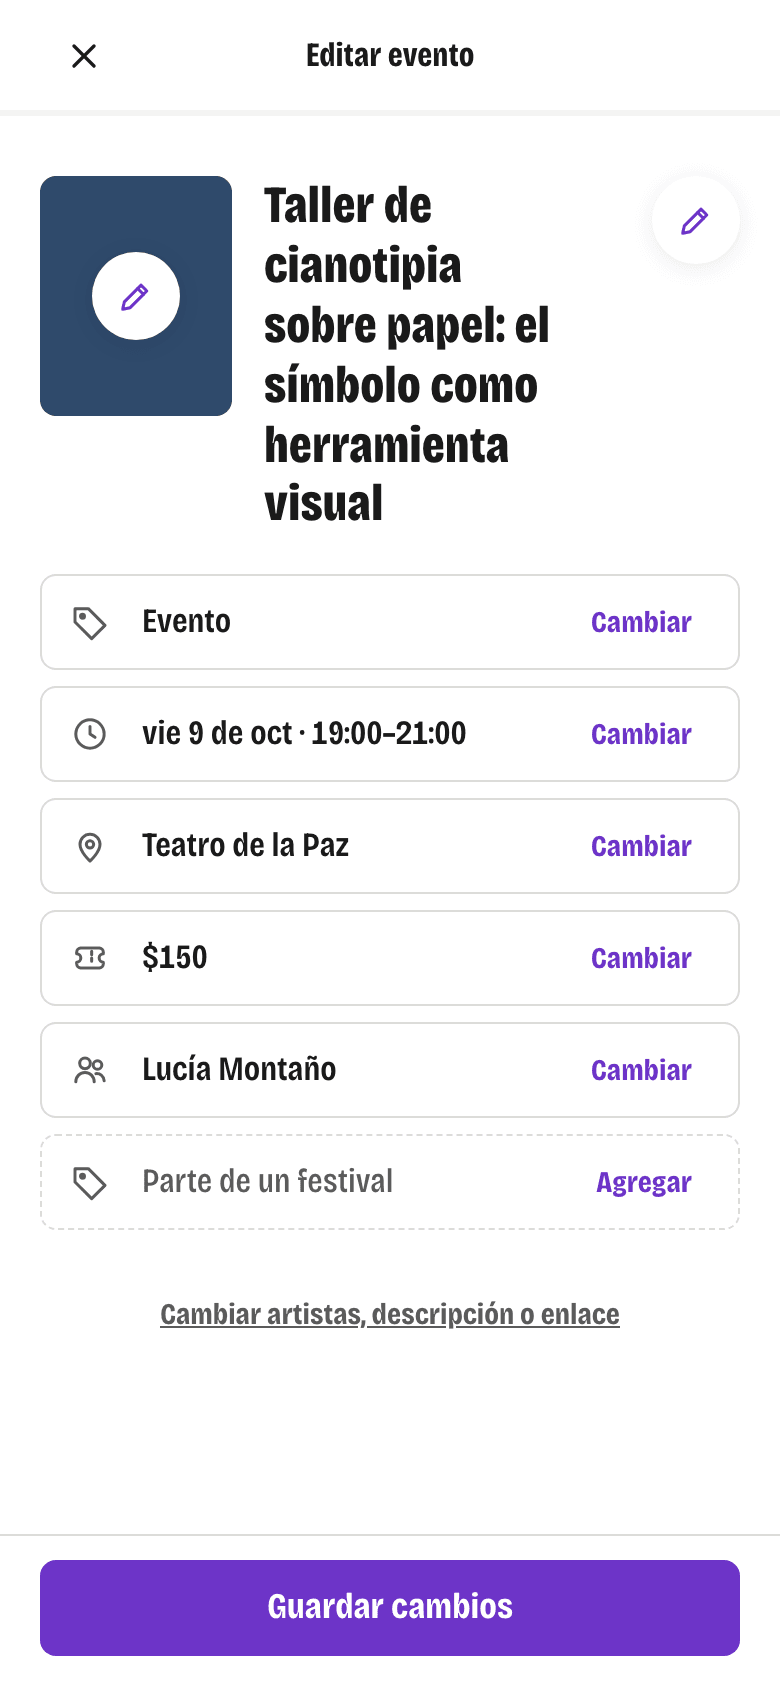
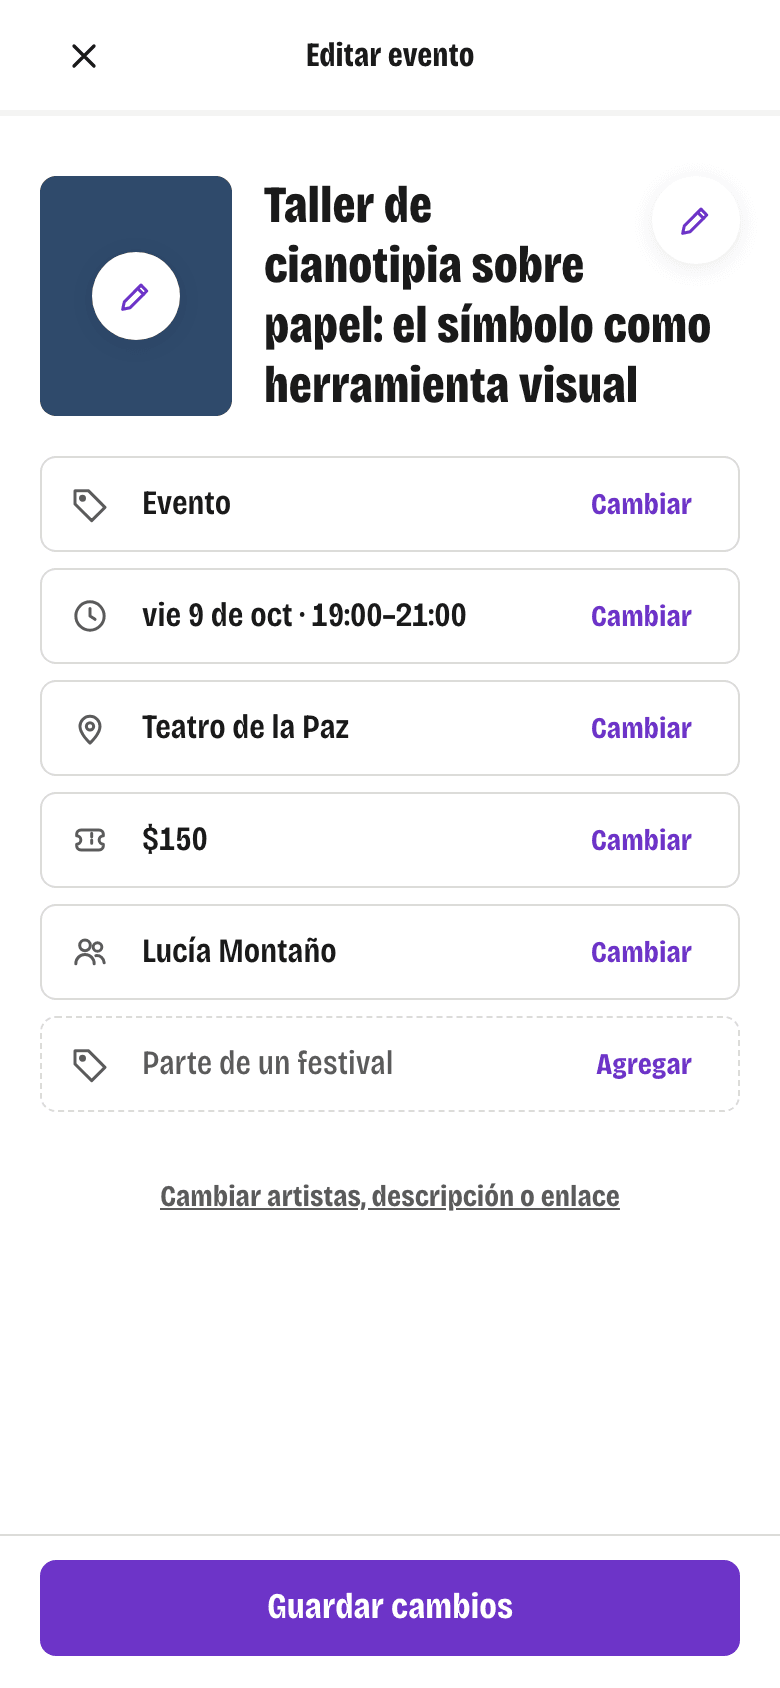
OL-349: el nombre rodea su lápiz con un hueco flotante
Segunda vuelta del gestor: la columna de 44 a toda la altura dejaba el
nombre largo en seis líneas a 390 y partía «herramienta» a 320. Ahora un
::before flotado a la derecha del h2 aparta solo las primeras líneas y
el resto usa todo el ancho (cuatro líneas a 390, seis a 320, sin partir).
Las pruebas miden palabra por palabra que nada se encima, que bajo el
lápiz el ancho es el completo y que ninguna palabra se parte. Capturas
01-03 y bitácora 378 al día; presupuestos de medir sin cambios.

diff --git a/src/app/nuevo/evento/PasoCartel.module.css b/src/app/nuevo/evento/PasoCartel.module.css
@@ -142,13 +142,16 @@
   column-gap: var(--espacio-4);
   align-items: start;
 }
-/* Al editar, una tercera columna del ancho del botón para el lápiz del nombre: el nombre nunca pasa por debajo de él. */
-.editable {
-  grid-template-columns: var(--ancho-cartel-revisa) minmax(0, 1fr) var(--control);
-  grid-template-areas:
-    "foto sello sello"
-    "foto titulo nombre"
-    "foto . .";
+/* Al editar, el lápiz del nombre va en su esquina de arriba a la derecha y el nombre lo rodea: un hueco flotante del tamaño del botón (con
+   su aire a la izquierda) aparta solo las primeras líneas; las de abajo usan todo el ancho (OL-349, segunda vuelta: una columna a toda la
+   altura dejaba un nombre largo en seis líneas a 390 y partía palabras a 320). El botón de verdad va encima, fuera del `h2` (dentro, su
+   nombre se sumaría al del título), y su círculo cae justo sobre el hueco. */
+.editable > h2::before {
+  content: "";
+  float: right;
+  width: var(--control);
+  height: var(--control);
+  margin-inline-start: var(--espacio-2);
 }
 /* La miniatura y el botón que la cubre miden lo mismo (4:5), aunque el nombre sea más alto que ella. */
 .cabeza > img,
@@ -166,7 +169,7 @@
   grid-area: titulo;
 }
 /* Los dos lápices: un botón transparente del tamaño de lo que cubre, con el círculo blanco del canon dentro. El de la miniatura lo lleva al
-   centro; el del nombre cubre el nombre y su columna, con el círculo arriba a la derecha (a la altura de la primera línea). */
+   centro; el del nombre cubre el nombre, con el círculo arriba a la derecha (a la altura de la primera línea, sobre el hueco flotante). */
 .cambiarCartel,
 .cambiarNombre {
   display: grid;
@@ -181,8 +184,7 @@
   place-items: center;
 }
 .cambiarNombre {
-  grid-row: titulo;
-  grid-column: titulo-start / nombre-end;
+  grid-area: titulo;
   align-self: stretch;
   justify-items: end;
   align-items: start;

diff --git a/docs/bitacora/2026/10/378-editar-cabecera-iconos.md b/docs/bitacora/2026/10/378-editar-cabecera-iconos.md
@@ -13,14 +13,14 @@ Antes: la miniatura del cartel quedaba «caída» (la cabeza alineaba todo a su 
 
 - **La cabeza de «Revisa» (`CabezaCartel`, `PasoCartel.tsx` y `.module.css`) se alinea arriba:** rejilla con `grid-template-areas` y `align-items: start`; la miniatura pegada arriba a la izquierda y, a su derecha desde la misma altura, el sello «Leído del cartel» (si lo hay) y el nombre. Una última fila `1fr` se lleva el alto que sobra cuando la miniatura es más alta que el texto, para que el sello y el nombre no se separen. Sin envoltorios nuevos. Vale también para el alta (la misma cabeza, sin lápices): el nombre ya no baja hasta la base de la miniatura.
 - **Lápiz sobre la miniatura, al centro** («Cambiar cartel»): un botón transparente del tamaño de la miniatura (4:5, el mismo ancho de siempre, `--ancho-cartel-revisa`) con el círculo del canon dibujado dentro (`claseBotonIcono({ relieve: "elevado" })`: 44 px, fondo blanco, sombra, glifo violeta; `IconoLapiz`, el de «Editar»). Toda la miniatura es el toque; abre el paso del cartel como antes.
-- **Lápiz junto al nombre, arriba a la derecha** («Cambiar nombre»): al editar, la cabeza suma una columna del ancho del botón (`--control`, clase `.editable`), así el nombre nunca pasa por debajo; el botón cubre el nombre y esa columna, con el círculo arriba a la derecha, a la altura de la primera línea (con sello, debajo del sello). Tocar el nombre también lo cambia; abre «¿Cómo se llama?» como antes.
+- **Lápiz junto al nombre, arriba a la derecha** («Cambiar nombre»): al editar (clase `.editable`), el nombre lleva al principio un hueco flotante a la derecha del tamaño del botón (`--control`) con su aire a la izquierda (`--espacio-2`), un `::before` con `float: right`; el texto rodea solo las primeras líneas y las de abajo usan todo el ancho. El botón de verdad va encima, fuera del `h2` (dentro, su nombre se sumaría al del título), cubre el nombre y deja su círculo justo sobre el hueco, a la altura de la primera línea (con sello, debajo del sello). Tocar el nombre también lo cambia; abre «¿Cómo se llama?» como antes.
 - **Sin letreros:** fuera «Cambiar nombre» y «Cambiar cartel» como texto (y su CSS: `.titulo + .cambiarNombre` de «Revisa» y `.cabeza > .cambiarCartel`); quedan solo como nombre accesible de los botones.
 - **Sin cartel, al editar:** la cabeza va igual, con la imagen del símbolo SN de siempre (`SIN_FOTO`, `/sin-foto.png`) y el mismo lápiz al centro, que pone uno. Por eso sale el renglón punteado «Cartel · Agregar» (su salida sigue: es el lápiz del símbolo).
 - `Revisa.tsx`: la cabeza entra con cartel o al editar (`cabeza`); el nombre es solo el `h2`; `CabezaCartel` recibe `editar={{ onCartel, onNombre }}` en vez de `onCambiar`.
 
 ## Decisiones por confirmar
 
-1. **El lápiz del nombre reserva su columna en toda la altura** (como pidió el gestor: el nombre no se mete debajo). Con un nombre largo el texto queda más angosto: a 390 «Taller de cianotipia sobre papel: el símbolo como herramienta visual» pasa de tres líneas (con los dos enlaces debajo) a seis, con un alto total parecido; **a 320 son ocho y «herramienta» se parte («herramien / ta»)** porque la columna mide 116 px y la palabra unos 122 (`overflow-wrap: anywhere`, como ya pasaba con palabras más largas que la columna). Probé acercar el lápiz (hueco de 8 en vez de 16) y no alcanzó (la página tiene 20 px de margen a 320); lo retiré para no complicar la rejilla. Si el founder prefiere que el nombre ocupe el ancho bajo el lápiz después de la primera línea, se haría con un hueco flotante del tamaño del botón dentro del nombre en vez de la columna.
+1. **El nombre rodea el lápiz** (segunda vuelta, corrección del gestor). La primera vuelta reservaba al lápiz una columna de la rejilla a toda la altura: con «Taller de cianotipia sobre papel: el símbolo como herramienta visual» el nombre quedaba en seis líneas a 390 y en ocho a 320, con «herramien / ta» partida (la columna medía 116 px y la palabra unos 122). El gestor retiró esa instrucción y pidió el hueco flotante: ahora son **cuatro líneas a 390 y seis a 320, sin ninguna palabra partida**. Los presupuestos de medir no cambian con esto (el `::before` no es un nodo).
 2. **Sin cartel, la miniatura del símbolo SN aparece al editar** (antes, sin cartel, solo el nombre y el renglón «Cartel · Agregar»). El círculo tapa el centro del símbolo; se ven las manos y los pies alrededor.
 3. **En el alta la cabeza también se alinea arriba** (antes el sello y el nombre iban pegados a la base de la miniatura, prototipo de la bitácora 323). Es la misma cabeza y el founder dijo «como debe ser».
 4. **Con el sello «Leído del cartel»** el lápiz del nombre va a la altura del nombre, no del sello (captura 04).
@@ -29,15 +29,15 @@ Antes: la miniatura del cartel quedaba «caída» (la cabeza alineaba todo a su 
 
 - `npm run lint` (0 errores; el aviso de siempre en `VisorImagen.componentes.test.mjs`), `npm run typecheck`, `npm test` (185 archivos, 3366 pruebas) e `npm run inventario` (sin novedades, 332 medidas en duro): en verde.
 - `npm run medir`: 36 pantallas × 4 anchos, sin novedades tras subir dos presupuestos de nodos, **s21-editar-evento 43 → 47 (77 → 81 desde tableta) y s26-editar-exposicion 59 → 63 (93 → 97)**: los dos letreros (dos botones con texto) pasan a dos botones con su círculo y el lápiz dentro (`button > span > svg > 2 path`). Sin desbordes, toques de 44 y nada tapado; teclado sin fallos. Solo cambian esos dos números en `medidas.aceptadas.json`.
-- Componentes (`EditarEvento.componentes.test.mjs`, Chrome de la Mac): **21 de 21** (3 nuevas). A 390 y a 320, con el nombre largo: ni «Cambiar nombre» ni «Cambiar cartel» se leen en la página; la miniatura arriba a la izquierda (misma altura que el nombre, al borde de la columna); el círculo del cartel mide 44 y está al centro de la miniatura, y su botón mide lo mismo que ella; el del nombre mide 44, a la derecha de la columna y a la altura del nombre, y el nombre termina antes de él y empieza después de la miniatura; tocar el nombre abre «¿Cómo se llama?» y tocar la esquina de la miniatura abre el paso del cartel. Sin cartel: el símbolo SN con el mismo lápiz al centro, que abre el paso sin «Quitar el cartel». La de quitar el cartel ahora espera el símbolo y ningún renglón «Cartel». `AltaEvento` (89), `ClasesEvento` y `Sugerencias`: en verde sin cambios.
+- Componentes (`EditarEvento.componentes.test.mjs`, Chrome de la Mac): **21 de 21** (3 nuevas). A 390 y a 320, con el nombre largo: ni «Cambiar nombre» ni «Cambiar cartel» se leen en la página; la miniatura arriba a la izquierda (misma altura que el nombre, al borde de la columna); el círculo del cartel mide 44 y está al centro de la miniatura, y su botón mide lo mismo que ella; el del nombre mide 44, a la derecha de la columna y a la altura del nombre; nada encimado (ninguna palabra a la altura del lápiz llega a él, medido palabra por palabra con `Range`); bajo el lápiz el ancho útil es el completo (el nombre llega al borde de la columna y algún renglón de abajo pasa por donde está el lápiz); ninguna palabra se parte; 4 renglones como mucho a 390 (6 a 320); tocar el nombre abre «¿Cómo se llama?» y tocar la esquina de la miniatura abre el paso del cartel. Sin cartel: el símbolo SN con el mismo lápiz al centro, que abre el paso sin «Quitar el cartel». La de quitar el cartel ahora espera el símbolo y ningún renglón «Cartel». `AltaEvento` (89), `ClasesEvento` y `Sugerencias`: en verde sin cambios.
 
 ## Capturas (`docs/rediseno/capturas-378/`)
 
 Del harness de componentes (componentes y CSS reales, letra Bricolage de la compilación, reloj fijo del miércoles 7 de octubre de 2026), a 2×. Todas abiertas y revisadas.
 
-- `01-cabecera-390.png`: «Editar evento» a 390 con cartel y «Taller de cianotipia sobre papel: el símbolo como herramienta visual»: la miniatura arriba a la izquierda con el lápiz blanco al centro; el nombre empieza a su altura, en seis líneas, y el lápiz del nombre arriba a la derecha, sin tocar el texto; los renglones de siempre y «Guardar cambios». Sin letreros.
-- `02-cabecera-320.png`: lo mismo a 320: nada encimado; el nombre en ocho líneas y «herramien / ta» partida (decisión 1).
-- `03-sin-cartel-390.png`: el mismo evento sin cartel: el símbolo SN gris con el lápiz al centro y el lápiz del nombre.
+- `01-cabecera-390.png`: «Editar evento» a 390 con cartel y «Taller de cianotipia sobre papel: el símbolo como herramienta visual»: la miniatura arriba a la izquierda con el lápiz blanco al centro; el nombre empieza a su altura, en cuatro líneas: «Taller de» y «cianotipia sobre» rodean el lápiz de arriba a la derecha y «papel: el símbolo como» y «herramienta visual» usan todo el ancho; los renglones de siempre y «Guardar cambios». Sin letreros.
+- `02-cabecera-320.png`: lo mismo a 320: nada encimado; el nombre en seis líneas, «herramienta» entera.
+- `03-sin-cartel-390.png`: el mismo evento sin cartel: el símbolo SN gris con el lápiz al centro y el nombre en cuatro líneas alrededor del lápiz.
 - `04-cartel-leido-390.png`: tras subir un cartel nuevo con la lectura marcada: «Leído del cartel» arriba, «Ecos de papel: segunda función» y el lápiz del nombre a la altura del nombre (el pie dice «Guardando…» porque la prueba acaba de guardar).
 - `05-alta-revisa-cartel-390.png`: el alta, «Revisa» con cartel leído: la miniatura arriba a la izquierda y, desde su borde de arriba, «Leído del cartel» e «Inauguración de Ecos de papel»; sin lápices.
 

diff --git a/docs/ops/OPEN_LOOPS.md b/docs/ops/OPEN_LOOPS.md
@@ -14,7 +14,7 @@
 
 ## Ahora
 
-- **OL-349 · Cabecera de «Editar evento»: lápices sin letreros (2026-10-08).** Founder, con captura de su iPhone: «el título y la imagen tienen letreros para editar e imagen está desfasada para abajo; agrega icono de editar sobre imagen, en el centro de la imagen, y alinea la imagen a la parte superior izquierda como debe ser; para el título agrega igual un icono en el extremo superior derecho». Reserva del gestor, rama `editar-cabecera-iconos`, base `origin/main` (`b8cac807`), bitácora [378](../bitacora/2026/10/378-editar-cabecera-iconos.md), sin migración. `CabezaCartel` alinea arriba (`align-items: start`, áreas de rejilla, sin envoltorios; vale también para el alta); al editar, un lápiz (círculo del canon de 44, `IconoLapiz`) al centro de la miniatura, que es toda el toque («Cambiar cartel»), y otro arriba a la derecha del nombre en su propia columna («Cambiar nombre»; tocar el nombre también); fuera los letreros. Sin cartel, al editar, la miniatura es el símbolo SN con el mismo lápiz y sale el renglón «Cartel · Agregar». Por confirmar: a 320 un nombre largo queda en ocho líneas y parte «herramienta» (la columna del lápiz recorre toda la altura). Lint, typecheck, 3366 unitarias, 21 de componentes de editar (3 nuevas), inventario y medir en verde (presupuestos s21 43→47 y s26 59→63 por los dos círculos con su lápiz); capturas 390×844 y 320. Falta el iPhone.
+- **OL-349 · Cabecera de «Editar evento»: lápices sin letreros (2026-10-08).** Founder, con captura de su iPhone: «el título y la imagen tienen letreros para editar e imagen está desfasada para abajo; agrega icono de editar sobre imagen, en el centro de la imagen, y alinea la imagen a la parte superior izquierda como debe ser; para el título agrega igual un icono en el extremo superior derecho». Reserva del gestor, rama `editar-cabecera-iconos`, base `origin/main` (`b8cac807`), bitácora [378](../bitacora/2026/10/378-editar-cabecera-iconos.md), sin migración. `CabezaCartel` alinea arriba (`align-items: start`, áreas de rejilla, sin envoltorios; vale también para el alta); al editar, un lápiz (círculo del canon de 44, `IconoLapiz`) al centro de la miniatura, que es toda el toque («Cambiar cartel»), y otro arriba a la derecha del nombre («Cambiar nombre»; tocar el nombre también), que el nombre rodea con un hueco flotante (segunda vuelta del gestor: la columna a toda la altura dejaba seis líneas a 390 y partía palabras a 320; ahora cuatro y seis, sin partir); fuera los letreros. Sin cartel, al editar, la miniatura es el símbolo SN con el mismo lápiz y sale el renglón «Cartel · Agregar». Lint, typecheck, 3366 unitarias, 21 de componentes de editar (3 nuevas), inventario y medir en verde (presupuestos s21 43→47 y s26 59→63 por los dos círculos con su lápiz); capturas 390×844 y 320. Falta el iPhone.
 - **OL-347 · «Festivales y exposiciones» con la tarjeta de «Destacados»; los festivales solo en su carril (2026-10-08).** Founder: «a los festivales ponles tamaño de eventos estelares» y, como ampliación, «Evita poner festivales en otros carriles». Reserva del gestor, rama `carril-festivales-grande`, base `origin/main` (`0199e71a`), bitácora [376](../bitacora/2026/10/376-carril-festivales-grande.md), sin migración. `CarrilAgenda` da a la parte `festivales` el tamaño `grande` (el cartel vertical de «Destacados») y `Inicio` su esqueleto; el rótulo Festival/Exposición ya iba abajo a la izquierda de la foto, sin medidas nuevas. `sinFestivales` (lib/inicio) quita el marco de «Destacados»/«Seleccionados para ti», «Esta semana», «Nuevos eventos» y «Más adelante»; `carrilEstaSemana` ya no pliega actos ni pinta «N actividades esta semana» y `carrilFestivales` ya no deja vistos sus actos: salen sueltos como cualquier evento. Fuera el código sin uso (`textoActividadesSemana`, `programa.estaSemana`). La Agenda y «Tus planes» no cambian. Por confirmar: grande también para las exposiciones, actos sueltos sin decir su festival, festival destacado fuera de «Destacados». Lint, typecheck, 3366 unitarias, 28 de componentes, inventario y medir en verde; capturas 390×844 y 320. Falta el iPhone.
 - **OL-332 · El puente nativo de Fotos acota entrada y conversión (F08); TestFlight 1.0 (6) (2026-10-07).** Hallazgo F08 (P2) de la revisión de seguridad privada (OL-327). Reserva del gestor, rama `fotos-nativo-acotado`, base `origin/main` (`0199e71a`), bitácora [361](../bitacora/2026/10/361-fotos-nativo-acotado.md), sin migración. `FotosPlugin.swift` ya no se fía de la web: tope de la cadena base64 antes de decodificar (8 MiB; el bucket corta en 5), permiso `addOnly` antes de tocar la imagen, formato por los primeros bytes y confirmado por ImageIO (JPEG, PNG o WebP; el `tipo` de la web se ignora), dimensiones por metadatos (8000 px por lado, 12 Mpx), JPEG y PNG tal cual y WebP a JPEG con la salida acotada (ya no `pngData()`); rechaza con `permiso`, `formato`, `tamano` o `error`, que la web muestra como siempre («No se pudo guardar»). `CURRENT_PROJECT_VERSION` 5 → 6. Compilación para el simulador en verde; arnés de macOS con los carteles reales de producción y entradas trampa; lint, typecheck, 3363 unitarias y 15 de componentes del botón en verde. No se probó dentro de la app en un simulador (los tres encendidos los usaba otro proyecto): pasos en la bitácora. Falta subir la 1.0 (6) (gestor) y probarla en el iPhone.
 - **OL-346 · «Festivales y exposiciones» trae todos los festivales; un festival sin cartel usa el de su próximo acto (2026-10-08).** Founder en su iPhone: «La línea de festivales no los tiene todos. En CINEMA no tiene cartel y el título se subió a la card; deberíamos usar un cartel del próximo evento.» Reserva del gestor, rama `festivales-todos-y-portada`, base `origin/main` (`3eb8c648`), bitácora [375](../bitacora/2026/10/375-festivales-todos-y-portada.md), sin migración. Diagnóstico con producción (solo lectura): de nueve festivales el carril solo traía Xantolo y Electric Universe; UASLP faltaba por estar en «Destacados», CINEMA, Fotovision, Ciclo Fellini y Verbena por haber salido en «Esta semana» (`vistos`), KOWAIFEST por no tener actos y Festival del Libro por ser de Dolores Hidalgo (otra ciudad). Ahora `carrilFestivales` no descuenta `vistos` a los festivales (sí a las exposiciones) y `festivalesVigentes` incluye los que no tienen actos («Programa por confirmar» en la tarjeta, el renglón y la ficha). La portada: `portadaDeFestival` (próximo acto con cartel; si todos pasaron, el último) de la misma lectura que las sedes (`cargarActosDeMarcos` pide `imagen`), resuelta en `fotoDeEvento` (propia → acto → lugar) para tarjetas, renglones, Buscar, Tus planes, ficha y `og:image`. «El título se subió» es la tarjeta sin foto firmada (H-03), no un defecto: no se cambió. Por confirmar: cartel del acto antes que la portada del lugar, «próximo» = el que no ha empezado, H-03, otras ciudades, el festival dos veces en Inicio, JSON-LD con la imagen propia. Lint, typecheck, 3363 unitarias, 33 de componentes, inventario y medir en verde; capturas 390×844. Falta el iPhone.
